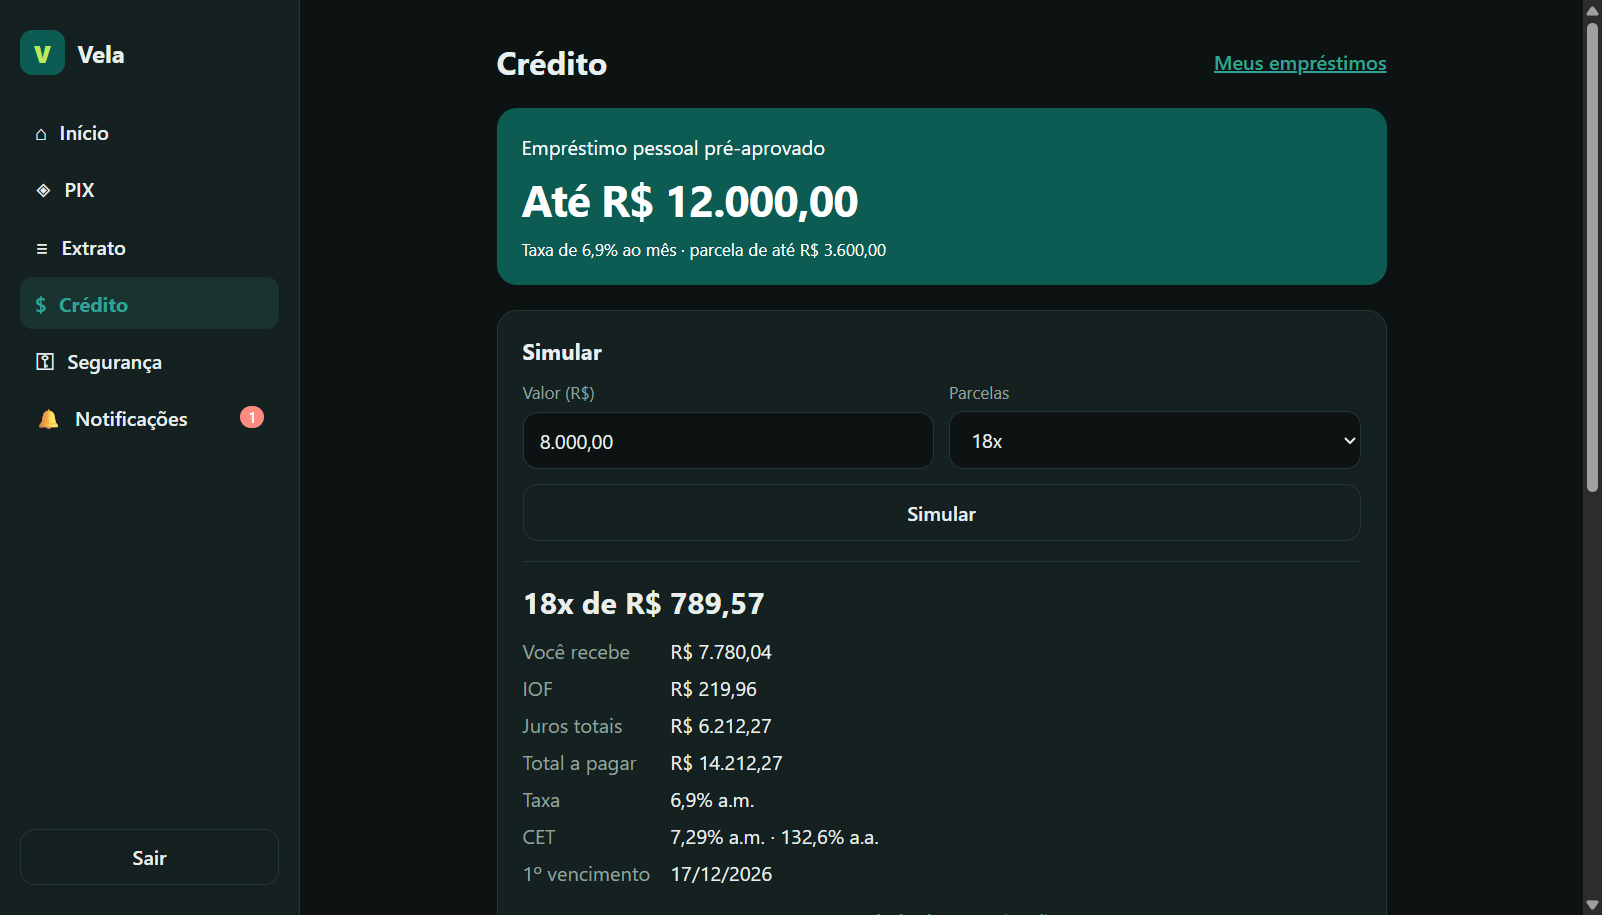
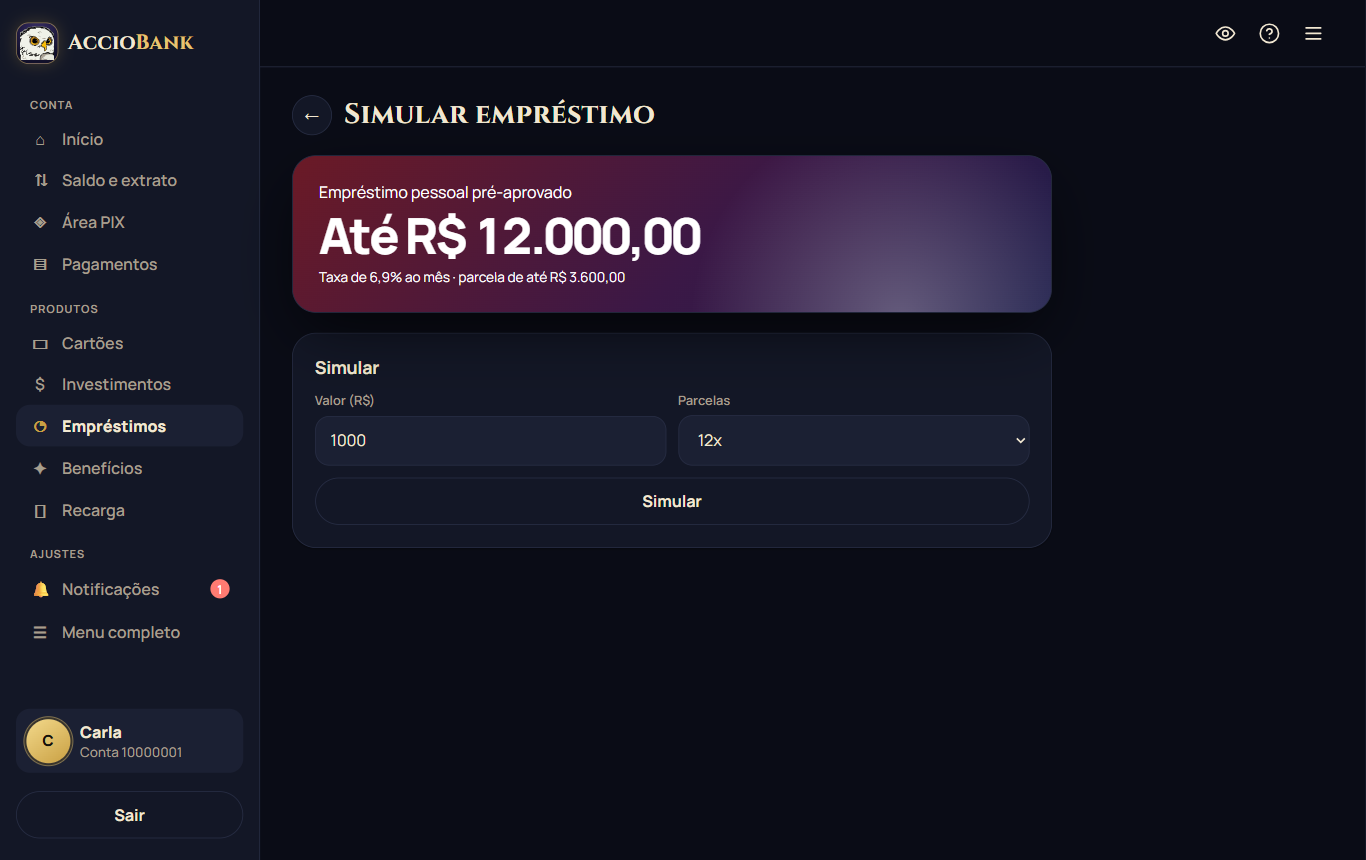
docs: README and screenshots for the AccioBank redesign

diff --git a/README.md b/README.md
@@ -1,4 +1,10 @@
-# Vela — banco digital (projeto de portfólio)
+# AccioBank — banco digital (projeto de portfólio)
+
+<p align="center">
+  <img src="frontend/public/coruja.svg" alt="A coruja mascote do AccioBank" width="120" />
+</p>
+
+> **Accio** é o feitiço que chama as coisas até você. O AccioBank chama o seu dinheiro: um banco digital com tema noturno de magia, uma coruja como mascote e as regras de um banco de verdade por baixo.
 
 [![CI](https://github.com/JhonReimberg/vela-banco-digital/actions/workflows/ci.yml/badge.svg)](https://github.com/JhonReimberg/vela-banco-digital/actions/workflows/ci.yml)
 ![.NET 10](https://img.shields.io/badge/.NET-10-512BD4?logo=dotnet)
@@ -22,19 +28,39 @@
 | Testes | xUnit · Testcontainers (PostgreSQL real) |
 | Infra | Docker Compose · nginx · GitHub Actions |
 
-> **Projeto fictício, feito para portfólio.** "Vela" não é uma instituição real e não tem relação com nenhum banco. Os CPFs, chaves e documentos usados são gerados para teste.
+> **Projeto fictício, feito para portfólio.** "AccioBank" não é uma instituição real e não tem relação com nenhum banco. Os CPFs, chaves e documentos usados são gerados para teste. O projeto começou com o nome "Vela" (por isso o repositório e os e-mails de demonstração ainda usam esse nome).
 
 Um banco digital com regras de negócio reais: **ledger de partidas dobradas**, **controle de concorrência**, **idempotência**, **PIX** (chaves, QR Code, copia e cola, devolução, agendamento e limites noturnos), **onboarding com KYC**, **2FA**, **senha transacional** e **crédito** (score explicável, motor de elegibilidade, empréstimo pela Tabela Price, cheque especial e back-office), **cartões** (fatura, parcelamento, rotativo), **investimentos** (CDB, caixinhas, IR regressivo), **antifraude**, **boletos** e **notificações em tempo real** (SignalR). As três fases do [roadmap](#roadmap) estão prontas.
 
-| Início (desktop) | PIX no celular | Receber com QR Code |
+| Início no celular | Cofres (Usar · Guardar) | Meus cartões |
 | --- | --- | --- |
-| ![Início](docs/screenshots/home.png) | ![Pagar com PIX](docs/screenshots/pix-pagar-mobile.png) | ![QR Code PIX](docs/screenshots/pix-receber.png) |
-| **Crédito: o que falta** | **Simulação (Price, IOF, CET)** | **Back-office** |
-| ![Requisitos do empréstimo](docs/screenshots/credito-bloqueado.png) | ![Simulação](docs/screenshots/credito-simulacao.png) | ![Painel do back-office](docs/screenshots/backoffice-painel.png) |
-| **Cartões e simulador de compra** | **Fatura** | **Investimentos (prévia de IR/IOF)** |
-| ![Cartões](docs/screenshots/cartoes.png) | ![Fatura](docs/screenshots/fatura.png) | ![Investimentos](docs/screenshots/investimentos.png) |
-| **Fila antifraude** | **Notificação em tempo real** | |
-| ![Antifraude](docs/screenshots/backoffice-antifraude.png) | ![Notificação via SignalR](docs/screenshots/notificacao-tempo-real.png) | |
+| ![Início no celular](docs/screenshots/home-mobile.png) | ![Cofres](docs/screenshots/cofres-mobile.png) | ![Cartões](docs/screenshots/cartoes.png) |
+| **Investimentos** | **PIX no celular** | **Menu** |
+| ![Investimentos](docs/screenshots/investimentos.png) | ![Pagar com PIX](docs/screenshots/pix-pagar-mobile.png) | ![Menu](docs/screenshots/menu-mobile.png) |
+
+| Início (desktop) | Entrar |
+| --- | --- |
+| ![Início no desktop](docs/screenshots/home.png) | ![Tela de login com a coruja](docs/screenshots/login.png) |
+| **Simulação de empréstimo (Price, IOF, CET)** | **Fatura do cartão** |
+| ![Simulação](docs/screenshots/credito-simulacao.png) | ![Fatura](docs/screenshots/fatura.png) |
+| **Receber com QR Code** | **Design system** |
+| ![QR Code PIX](docs/screenshots/pix-receber.png) | ![Design system](docs/screenshots/design-system.png) |
+| **Back-office: painel** | **Back-office: antifraude** |
+| ![Painel do back-office](docs/screenshots/backoffice-painel.png) | ![Antifraude](docs/screenshots/backoffice-antifraude.png) |
+
+## Visual e experiência
+
+- **Tema noturno de magia, sempre escuro:** céu estrelado, texto cor de pergaminho, dourado como cor da marca e vinho para dar profundidade. Títulos em Cinzel (letras de inscrição) e interface em Manrope.
+- **Mascote:** uma coruja branca, que aparece no logo, no favicon, no login, nas dicas ("Recado da coruja") e nas telas vazias, com movimentos leves (flutuar, pulinho, inclinar a cabeça).
+- **Cartões com cara de 3D:** débito em metal preto, crédito em folha dourada e virtual em vidro, com chip, símbolo de aproximação e um reflexo que acompanha o ponteiro.
+- **Celular e desktop diferentes:**
+  - no celular, o Início tem uma faixa com avatar, olho para esconder valores, ajuda e menu; ao rolar, ela encolhe e mostra a marca. A navegação fica numa barra flutuante só com ícones (Início, Investimentos, Benefícios, Recarga);
+  - no desktop, menu lateral agrupado e o Início em duas colunas.
+- **Cada passo no seu lugar:** o Início mostra resumos (saldo, cartão, empréstimo, investimentos, últimas movimentações) e cada um abre a própria tela. Cada área tem uma tela-menu e cada operação uma tela separada: cartões (lista → detalhe → simular compra, pedir cartão, ativar crédito), investimentos (visão geral → produto → aplicar, resgatar, empréstimo com garantia), pagamentos, empréstimos e segurança.
+- **Conta com abas Usar e Guardar**, menu completo, perfil, configurações, ajuda com perguntas frequentes e uma área de benefícios (ainda sem programa de vantagens: aparece como "em breve").
+- **Foto de perfil:** escolhida no Perfil, recortada em quadrado e salva pela API, então aparece em qualquer aparelho.
+- **Design system vivo** em `/design-system` (cores, tipografia, cartões, mascote e componentes), aberto sem login.
+- **Acessibilidade:** contraste AA no texto, foco visível, rótulos nos botões só de ícone e animações desligadas para quem pede menos movimento.
 
 ## Rodar com um comando
 
@@ -121,6 +147,7 @@ Também dá para abrir uma conta nova pelo app. No modo demo, a análise de KYC 
 - **Tempo real:** notificações por **SignalR** (PIX recebido, parcela debitada, transação retida, boleto não pago...), com aviso na tela e atualização automática do saldo.
 - **Boletos:** emissão para cobrar (linha digitável e código de barras no padrão FEBRABAN, com banco fictício), pagamento validando os dígitos verificadores (módulo 10 e 11) e o fator de vencimento, e **agendamento** até o vencimento.
 - **Recarga de celular** simulada (operadoras fictícias), debitada pelo ledger.
+- **Foto de perfil:** `PUT/GET/DELETE /api/account/photo`, só JPG ou PNG de até 2 MB, conferidos pelo conteúdo do arquivo, guardados fora do banco e registrados na auditoria.
 
 ## Arquitetura
 
@@ -231,11 +258,11 @@ Toda notificação gravada gera um evento no outbox; o handler empurra a mensage
 ## Testes e CI
 
 ```bash
-cd backend && dotnet test   # 153 unitários + 68 de integração
+cd backend && dotnet test   # 153 unitários + 71 de integração
 ```
 
 - **Unitários:** regras de domínio, como cálculo de CPF, BR Code e CRC16, períodos e carência de limites, agendamento mensal (31/01 → 28/02 → 31/03), devoluções, bloqueio de PIN, Tabela Price/IOF/CET, IR e IOF regressivos, Luhn, fatura e rotativo, linha digitável de boleto e regras antifraude.
-- **Integração:** a API real contra um **PostgreSQL de verdade via Testcontainers**, cobrindo os fluxos de dinheiro, concorrência, idempotência, segurança, KYC, PIX, crédito, cartões, investimentos, antifraude, boletos e o push via SignalR. Os testes com tempo (rotativo, agendamentos, rendimento) controlam o relógio de negócio, e vários terminam conferindo a conciliação do ledger.
+- **Integração:** a API real contra um **PostgreSQL de verdade via Testcontainers**, cobrindo os fluxos de dinheiro, concorrência, idempotência, segurança, KYC, PIX, crédito, cartões, investimentos, antifraude, boletos, foto de perfil e o push via SignalR. Os testes com tempo (rotativo, agendamentos, rendimento) controlam o relógio de negócio, e vários terminam conferindo a conciliação do ledger.
 - **GitHub Actions** (`.github/workflows/ci.yml`): build, testes, lint e build do frontend em todo push e PR.
 
 ## Desenvolvimento local
@@ -257,9 +284,11 @@ backend/
   src/Bank.Api              endpoints e pipeline HTTP
   tests/                    unitários e integração (Testcontainers)
 frontend/src/
-  lib/                      cliente HTTP, sessão, formatação, tipos
-  pages/                    telas (onboarding, início, extrato, PIX, crédito, cartões,
-                            investimentos, pagamentos, segurança, back-office)
+  components/               layout, componentes de interface, cartão 3D, mascote
+  lib/                      cliente HTTP, sessão, formatação, tipos, foto de perfil
+  pages/                    telas (onboarding, início, conta, extrato, PIX, crédito, cartões,
+                            investimentos, pagamentos, segurança, menu, back-office)
+  index.css                 design system (tokens de cor, tipografia, forma) e estilos
 ```
 
 ## Roadmap
@@ -267,13 +296,16 @@ frontend/src/
 - [x] **Fase 1:** base sólida (conta, segurança, ledger, PIX)
 - [x] **Fase 2:** crédito (motor de elegibilidade, score interno, empréstimo pela Tabela Price, cheque especial, back-office)
 - [x] **Fase 3:** cartões, investimentos (CDB, caixinhas, IR regressivo), crédito com garantia de investimento, antifraude, notificações em tempo real (SignalR), boletos e recarga
+- [x] **Nova identidade:** AccioBank, design system com tema noturno, mascote, navegação no padrão de app de banco e foto de perfil
 
 ## Simplificações conscientes
 
-- Todo PIX é entre contas do próprio Vela; não há integração com o SPI/DICT reais.
+- Todo PIX é entre contas do próprio AccioBank; não há integração com o SPI/DICT reais.
 - Chaves de e-mail e celular não são confirmadas por código.
 - O e-mail é simulado: as mensagens vão para o log estruturado.
 - Boletos de outros bancos e recargas são liquidados contra uma conta interna (não há câmara de compensação nem operadora real).
 - O número completo do cartão fica no banco de dados; um emissor real usa um cofre/tokenização no escopo PCI.
 - O seed não gera o rendimento retroativo dos investimentos: ele começa a aparecer a partir do primeiro job diário.
 - A chave de assinatura dos JWTs e as senhas do `.env` servem só para desenvolvimento.
+- A área de benefícios (cashback, cupons, sorteios) e os produtos "Tesouro e ações" são só vitrine: não existem no backend.
+- Ao trocar a foto de perfil, o arquivo anterior continua no armazenamento (o serviço de arquivos não tem exclusão).
